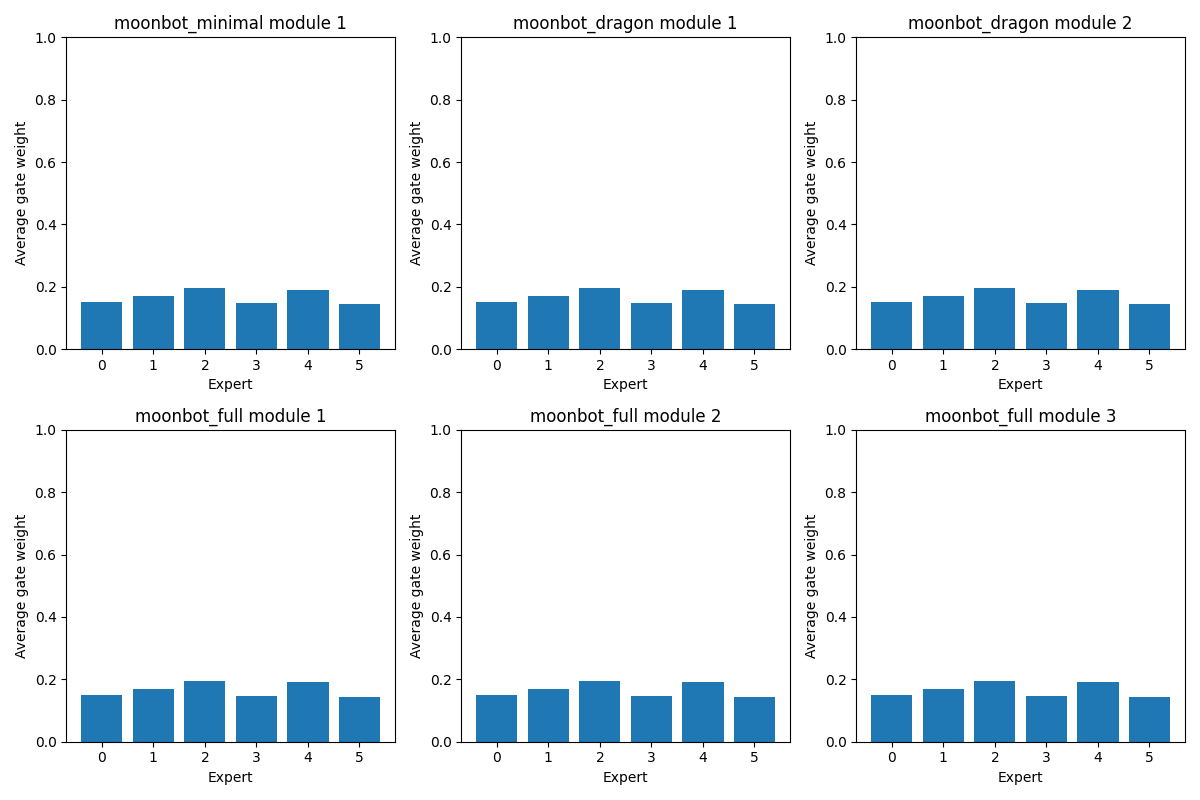
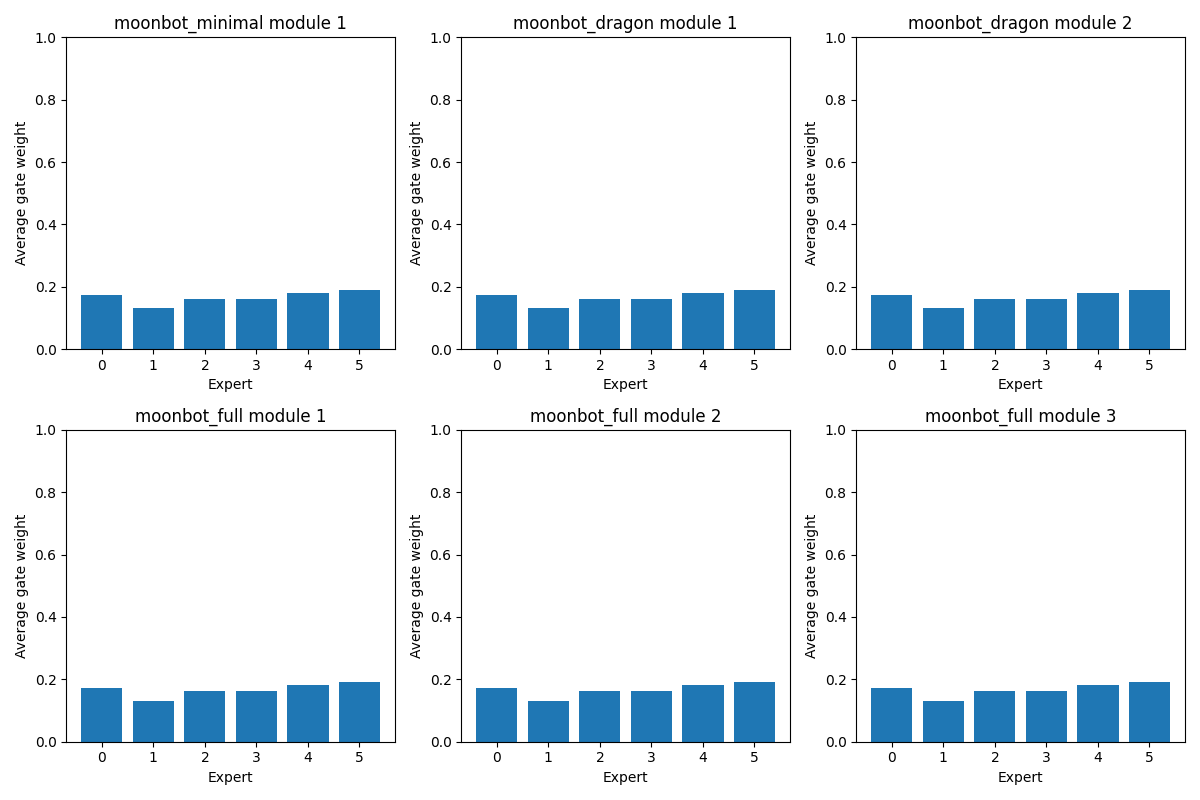
Update image

diff --git a/M2oE/models/M2oE.py b/M2oE/models/M2oE.py
@@ -108,7 +108,8 @@ class M2oEGate(nn.Module):
             value=v,
             key_padding_mask=key_padding_mask,
         )  # [batch_size, max_num_modules + 1, embedding_dim]
-        attn_output = self.dropout(self.norm(attn_output))  # Residual connection
+        attn_output = self.dropout(self.norm(attn_output))
+        # attn_output = attn_output + feature_integration  # residual connection
 
         gate = self.gate(attn_output[:, 1:, :])
 

diff --git a/source/moonbot_envs/moonbot_envs/envs/agents/M2oE_cfg.py b/source/moonbot_envs/moonbot_envs/envs/agents/M2oE_cfg.py
@@ -12,6 +12,7 @@ class M2oE_Cfg(M2oEOnPolicyRunnerCfg):
     save_interval = 100
     experiment_name = "MoonBot_locomotion"
     empirical_normalization = False
+    gate_warmup_steps = 100
     policy = M2oEActorCriticCfg(
         init_noise_std=1.0,
     )
